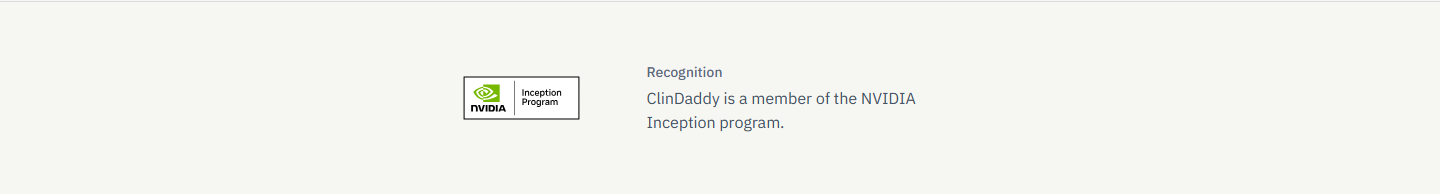
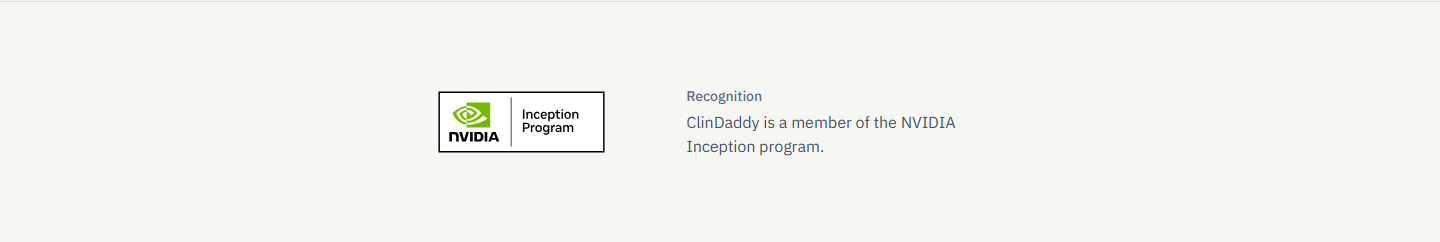
Increase NVIDIA badge to 80px desktop / 64px mobile

Changed region(s): [[0.2812, 0.3402, 0.5938, 0.6804], [0.4375, 0.4639, 0.6875, 0.5567]]

diff --git a/app/page.tsx b/app/page.tsx
@@ -503,7 +503,7 @@ export default function HomePage() {
       <section id="recognition" className="border-t border-rule bg-paper">
         <Container>
           <div className="flex flex-col items-center gap-5 py-8 text-center sm:flex-row sm:justify-center sm:gap-8 sm:py-10 sm:text-left">
-            <span className="inline-flex p-6 lg:p-7">
+            <span className="inline-flex p-8 lg:p-10">
               <NvidiaInceptionBadge variant="light" />
             </span>
             <div>

diff --git a/app/trust/page.tsx b/app/trust/page.tsx
@@ -193,7 +193,7 @@ export default function TrustPage() {
       {/* Programs */}
       <Section tone="surface" bordered id="programs">
         <div className="flex flex-col gap-8 sm:flex-row sm:items-center sm:gap-10">
-          <span className="inline-flex shrink-0 p-6 lg:p-7">
+          <span className="inline-flex shrink-0 p-8 lg:p-10">
             <NvidiaInceptionBadge variant="light" />
           </span>
           <div>

diff --git a/components/brand/nvidia-inception-badge.tsx b/components/brand/nvidia-inception-badge.tsx
@@ -29,7 +29,7 @@ export function NvidiaInceptionBadge({
       width={500}
       height={216}
       unoptimized
-      className={cn("h-11 w-auto lg:h-14", className)}
+      className={cn("h-16 w-auto lg:h-20", className)}
     />
   );
 }
